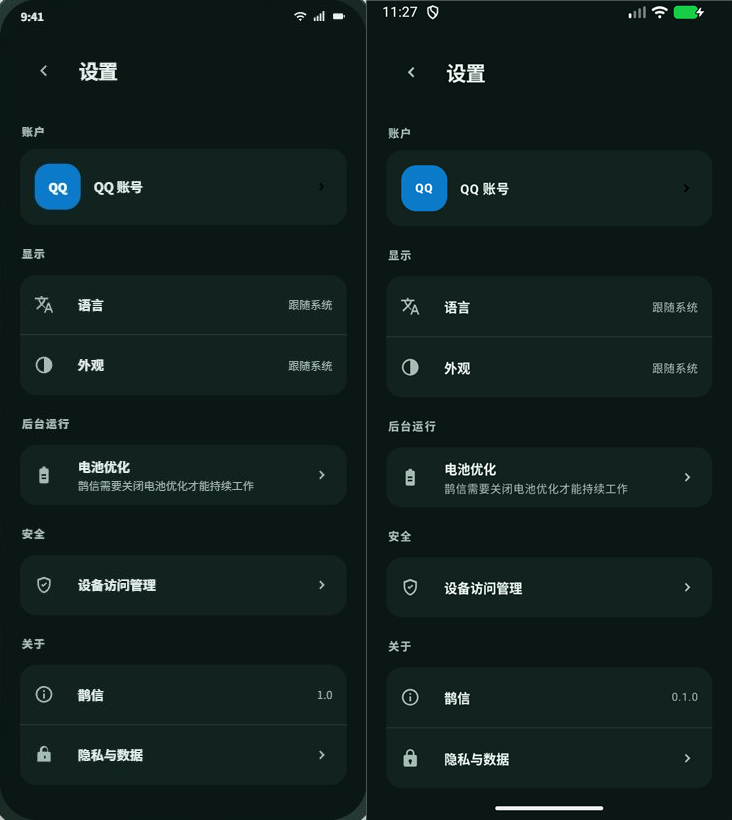
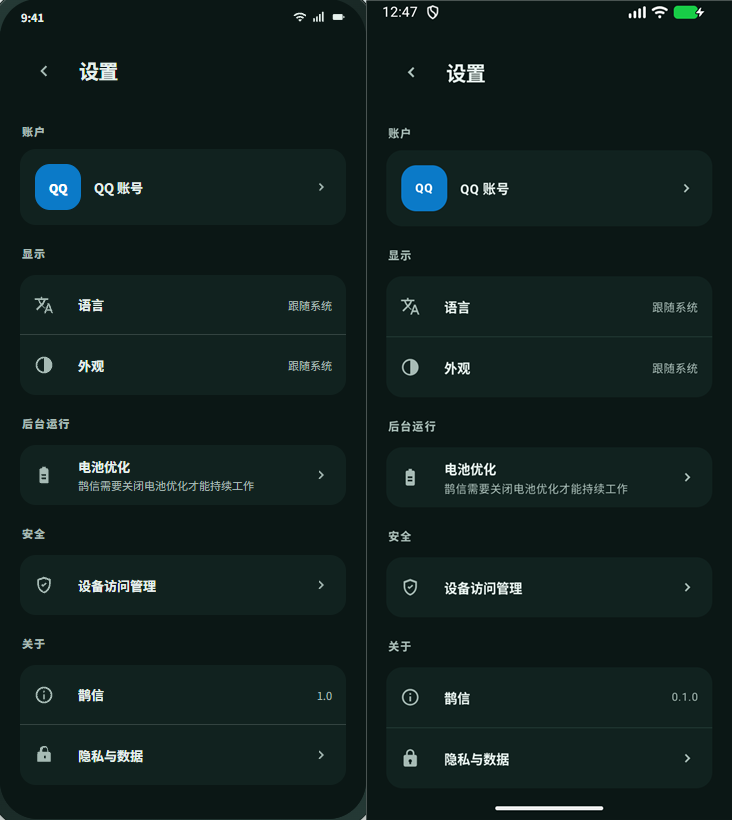
fix: [issue-119] match Account chevron to theme

diff --git a/app/src/androidTest/kotlin/com/buddylabs/pinglide/ui/settings/SettingsScreenTest.kt b/app/src/androidTest/kotlin/com/buddylabs/pinglide/ui/settings/SettingsScreenTest.kt
@@ -40,6 +40,7 @@ import androidx.compose.ui.test.performTouchInput
 import androidx.compose.ui.unit.Density
 import androidx.compose.ui.unit.dp
 import androidx.core.content.ContextCompat
+import androidx.core.graphics.ColorUtils
 import androidx.test.platform.app.InstrumentationRegistry
 import com.buddylabs.pinglide.R
 import com.buddylabs.pinglide.app.LocalizedContent
@@ -122,6 +123,7 @@ class SettingsScreenTest {
         val container = ContextCompat.getColor(context, R.color.surface_container)
         val divider = ContextCompat.getColor(context, R.color.outline_variant)
         val iconTint = ContextCompat.getColor(context, R.color.on_surface_variant)
+        assertTrue("Chevron contrast", ColorUtils.calculateContrast(iconTint, container) >= 3.0)
         val surface = ContextCompat.getColor(context, R.color.surface)
         val groups = listOf("账户" to 76, "显示" to 121, "后台运行" to 60, "安全" to 60, "关于" to 121)
         groups.forEach { (title, height) ->
@@ -147,12 +149,12 @@ class SettingsScreenTest {
             if (height == 76) {
                 assertTrue("$title QQ badge", image.hasTint(15, 61, 38, 0xff0b7ac8.toInt()))
                 assertTrue(
-                    "$title approved chevron",
+                    "$title theme-matched chevron",
                     image.hasTint(
                         with(compose.density) { image.width.toDp().value.toInt() } - 35,
                         with(compose.density) { image.width.toDp().value.toInt() } - 15,
                         38,
-                        Color.BLACK
+                        iconTint
                     )
                 )
             } else {

diff --git a/app/src/main/kotlin/com/buddylabs/pinglide/ui/settings/SettingsScreen.kt b/app/src/main/kotlin/com/buddylabs/pinglide/ui/settings/SettingsScreen.kt
@@ -195,7 +195,12 @@ private fun SettingsAccountRow(modifier: Modifier, onClick: () -> Unit) {
             fontSize = 13.sp,
             fontWeight = FontWeight.Bold
         )
-        Icon(painterResource(R.drawable.ic_chevron), null, Modifier.size(20.dp), tint = Color.Black)
+        Icon(
+            painterResource(R.drawable.ic_chevron),
+            null,
+            Modifier.size(20.dp),
+            tint = MaterialTheme.colorScheme.onSurfaceVariant
+        )
     }
 }
 

diff --git a/docs/ui-prototype/review.js b/docs/ui-prototype/review.js
@@ -1561,7 +1561,7 @@
       <button class="account-card" data-screen="account" style="width:100%;border:0;color:inherit;text-align:left;">
         <span class="qq-badge">QQ</span>
         <span style="min-width:0;flex:1"><span class="device-name">QQ 账号</span></span>
-        ${icon("chevron", "chevron")}
+        ${icon("chevron", "icon chevron")}
       </button>
       <div class="group-label">显示</div>
       <div class="list-group">

diff --git a/docs/implementation/settings-root.md b/docs/implementation/settings-root.md
@@ -15,9 +15,10 @@ the version comes from the installed package rather than the prototype's sample.
 The comparisons use Simplified Chinese at 366 × 820 dp on an API 37 emulator,
 with the approved prototype on the left and Android on the right. Android
 provides native font rendering and system bars, with theme-appropriate
-system bar icon contrast in the full-screen dialog. The comparison uses the
-approved Account chevron in both themes, rather than the unapproved
-contrast change from the first implementation. The actual installed version
+system bar icon contrast in the full-screen dialog. The Account chevron
+matches the other chevrons in both themes, as confirmed by the operator in
+the [second review design clarification](https://github.com/BuddyLabsCo/pin-glide-android/issues/119#issuecomment-7162893031).
+The actual installed version
 is `0.1.0`; the prototype illustrates `1.0`. The shared `SettingsPage` keeps
 the header and Back control fixed while the groups scroll, preserving the
 original Android scrolling behavior.
@@ -64,3 +65,17 @@ Settings tests passed in both themes, and the reference-layout test also
 passed with the emulator's system font scale set to 150%. The six masks
 reject each of the other five glyphs in the existing light capture.
 `qualityCheck` and debug and instrumentation APK assembly passed.
+
+After the operator confirmed the original black chevron was a prototype
+mistake, the prototype SVG and Android row were updated to use the same
+theme-specific color as the other chevrons. The updated reference was
+rendered in the browser; before/after captures in the same browser differ
+in exactly 44 pixels, all within the two Account chevrons. The refreshed
+reference has minor font rasterization differences from the older capture.
+Both Android comparisons were visually inspected. Account chevron contrast
+is 5.78:1 in light and 8.19:1 in dark; the reference-layout test checks
+both the expected tint and a minimum 3:1 contrast. All three Settings tests
+passed in each theme on API 37. All 46 JVM tests, `qualityCheck`, debug and
+release Kotlin compilation, debug and instrumentation APK assembly, and
+`node docs/ui-prototype/check-pairing.cjs` passed. The full instrumentation
+suite was not repeated for the second review fix.
